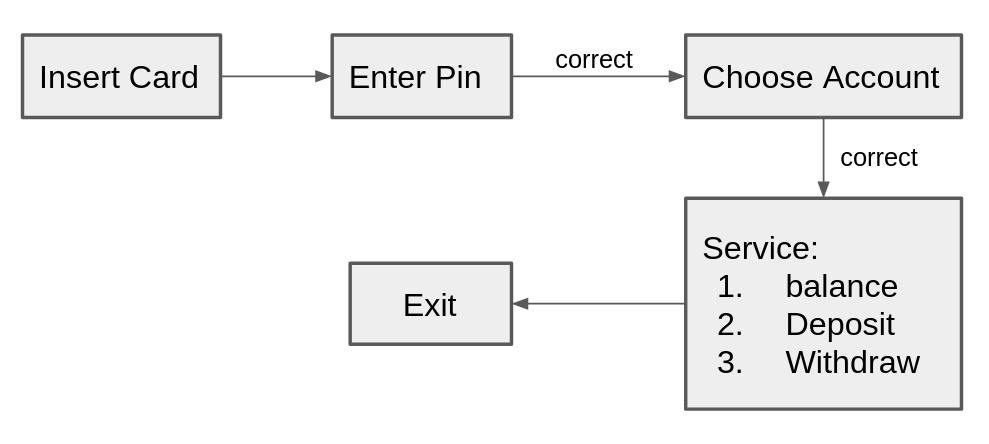
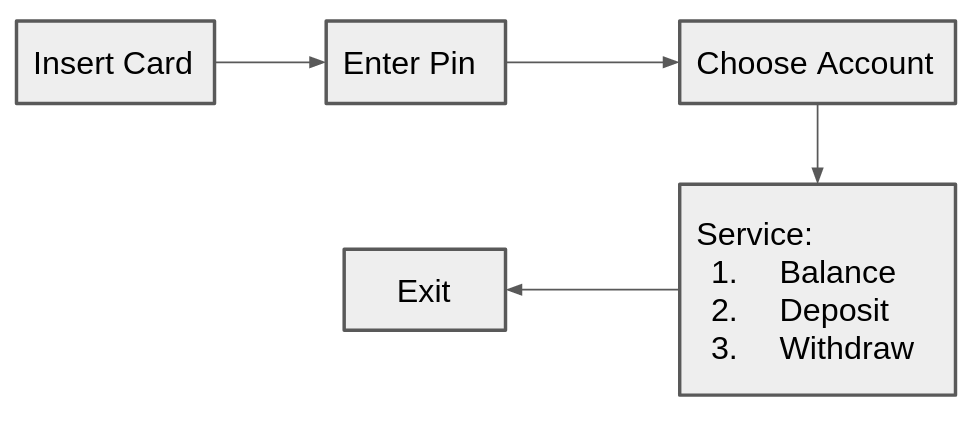
done project

diff --git a/ATM_Controller.cpp b/ATM_Controller.cpp
@@ -151,6 +151,8 @@ public:
                     double depositAmount;
                     cin >> depositAmount;
                     balance += depositAmount;
+                    cout << "Please insert money into cashbin" << endl;
+                    cin.ignore();
                     cout << "Deposit Success!" << endl;
                     break;
                 // case3: Withdraw     
@@ -161,6 +163,8 @@ public:
                     if (withdrawAmount <= balance) {
                         cout << "Please insert money and press enter key: ";
                         balance -= withdrawAmount;
+                        cout << "Please get money into cash bin" << endl;
+                        cin.ignore();
                         cout << "Withdraw success!" << endl;
                     } else {
                         cout << "Not enough money." << endl;

diff --git a/README.md b/README.md
@@ -1,10 +1,50 @@
 # ATM Controller
+- Author: Luxi Huang
 
 ## Introduction: 
 - This program is designed for a simple ATM controller. 
 - It contains following flows: 
   - Insert Card => PIN number => Select Account => See Balance/Deposit/Withdraw/
 
+ <p align="middle"> <img src="https://github.com/luxi-huang/ATM-Controller/blob/main/img/flow_chart.png?raw=true" alt="drawing" /> </p>  
+
+ ## Process:
+ ### 1. Insert Card:
+ - It will ask user to insert card, and press enter key after they done. 
+ - Assume you have insert card, just press enter key and move to next step.
+  
+ ### 2. Enter PIN:
+ - Correct pin number is "1234". 
+ - It will ask user to enter pin number.
+ - If the pin is correct, then will move to next step.
+ - If pin is not correct, the system will ask user to enter again. If user enter three times wrong, the system would exit. 
+ 
+ ### 3. Choose Account:
+ - It will ask user to choose checking account or saving account.
+ - The system would exit if user choose invalid account for three time. 
+
+ ### 4. Service:
+  - There are 5 options that user can choose from the service menu.
+  - Option 1 - Balance: user can check the account balance.
+  - Option 2 - Deposit: user can enter deposit values, and insert money into cash bin. 
+  - Option 3 - Withdraw: user can enter how much money they want to withdraw, which should greater than current balance. Then get money from cash bin.
+  - Option 4 - Back to account choosing menu.
+  - Option 5 - Exit system.
+ 
+ ### 5. Exit:
+  - Exit System. 
+
+## How to run program:
+- Step 1: clone github files:
+   - ```git clone https://github.com/luxi-huang/ATM-Controller.git``` 
+- Step 2: go to ATM-Controller files:
+   - ``` cd ATM-Controller ```
+- Step 3: compile files:
+   - ``` g++ -std=c++11 ATM_Controller.cpp ```
+- Step4 : run files:
+  - ./a.out 
+
+ 
 
 
 
